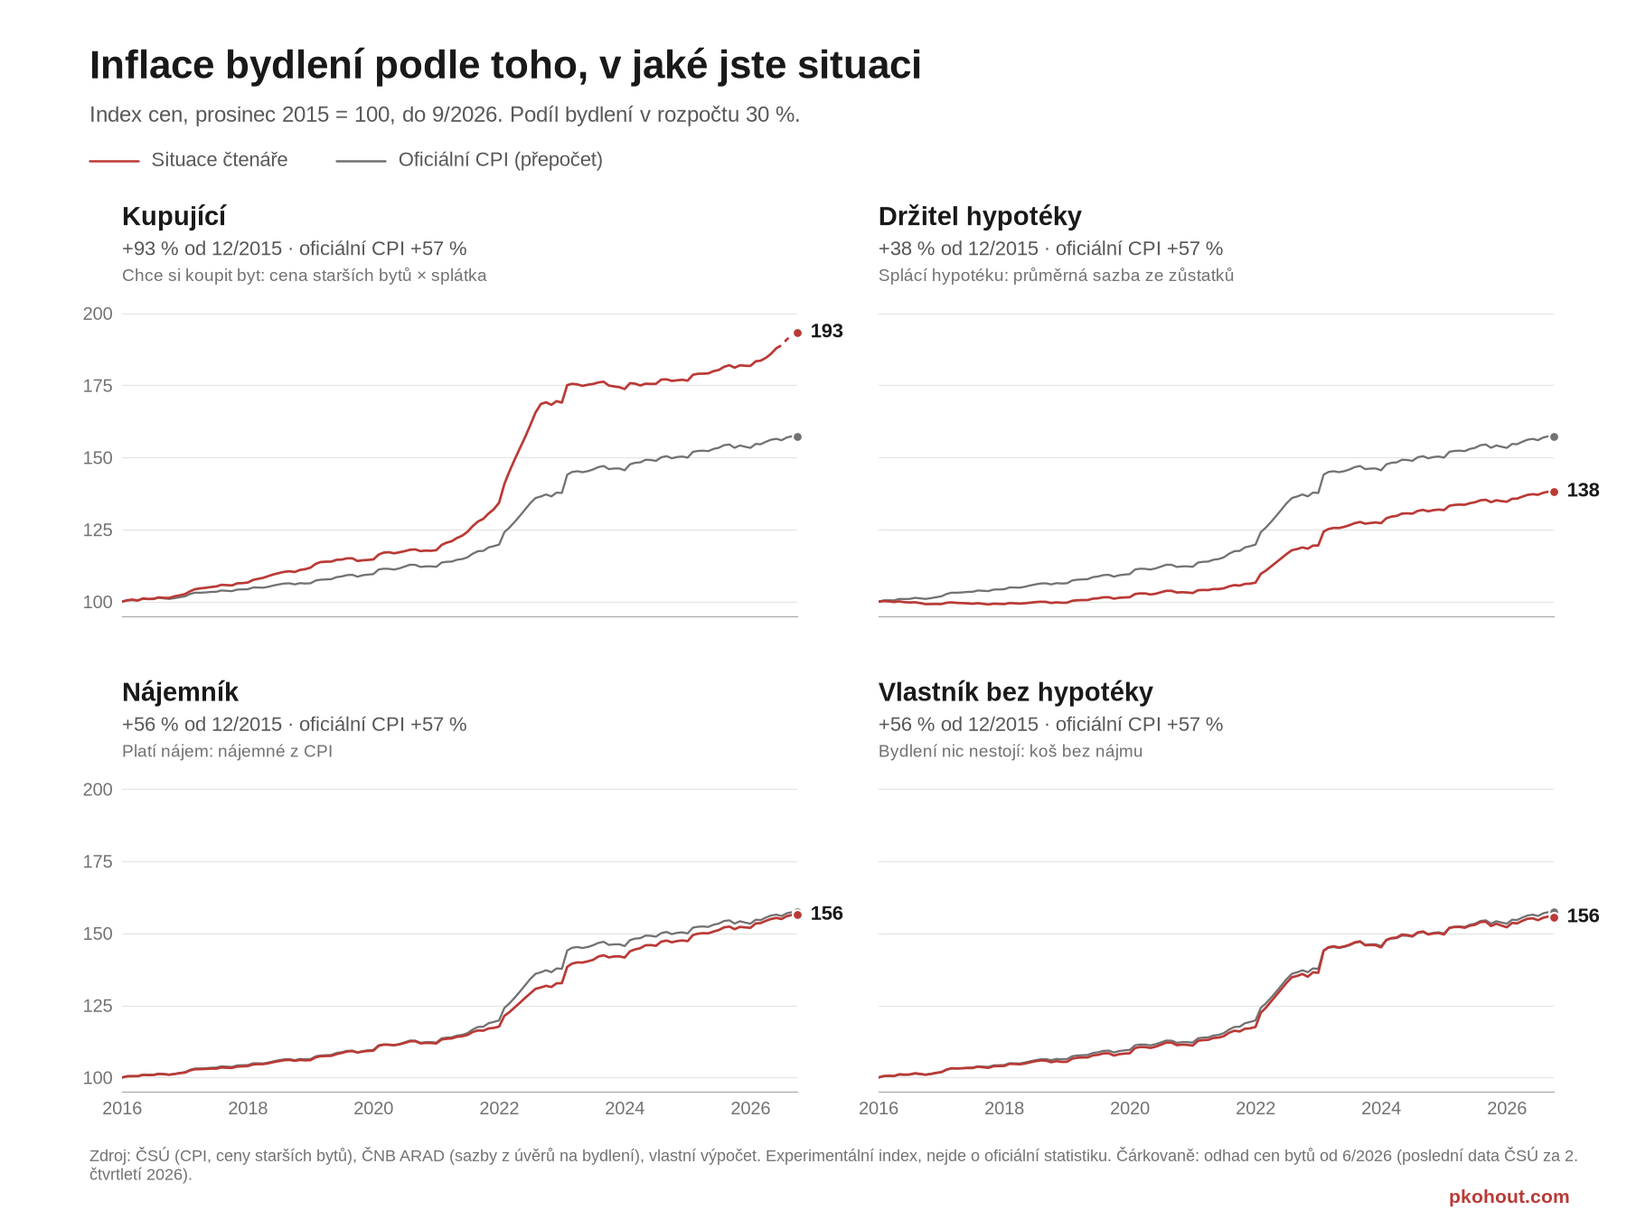
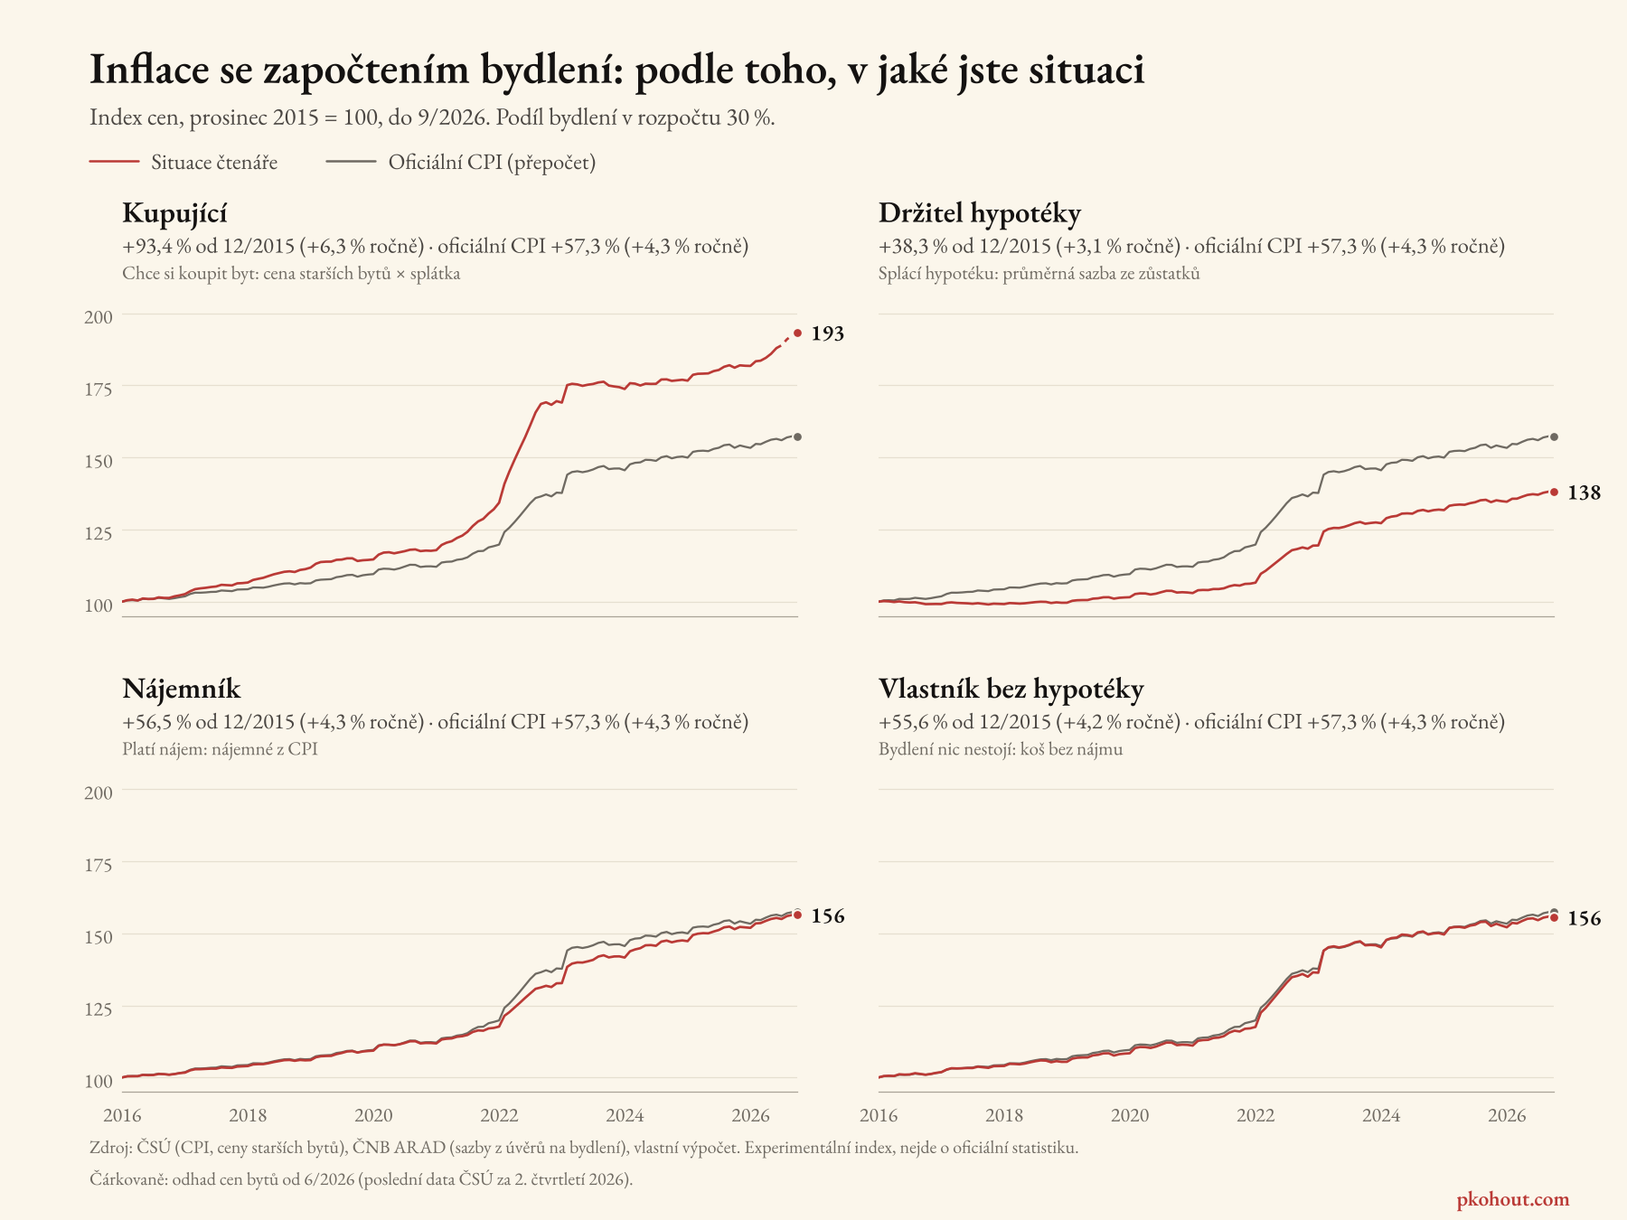
Add files via upload

diff --git a/docs/index.html b/docs/index.html
@@ -40,6 +40,10 @@ h1{font-size:clamp(32px,5.4vw,44px);line-height:1.1;margin:0 0 14px;font-weight:
 .chip{font:inherit;font-size:16px;background:transparent;border:1px solid var(--line);border-radius:0;padding:4px 14px;cursor:pointer;color:var(--ink)}
 .chip:hover{background:var(--card)}
 .chip[aria-pressed="true"]{background:var(--ink);border-color:var(--ink);color:var(--surface)}
+#mode-box[hidden]{display:none}
+.unit{font-size:.36em;letter-spacing:0;margin-left:.25em;color:var(--ink2)}
+.tile[aria-pressed="true"] .unit{color:#FBE9E4}
+.hero .unit{font-size:.3em}
 .slider{min-width:240px;flex:1;max-width:380px}
 .slider label{display:flex;justify-content:space-between;font-size:15px;color:var(--muted);margin-bottom:6px}
 .slider label b{color:var(--ink);font-weight:600}
@@ -118,6 +122,10 @@ td{font-variant-numeric:tabular-nums}
         <p class="row-label" id="lbl-per">Období</p>
         <div class="chips" id="chips" role="group" aria-labelledby="lbl-per"></div>
       </div>
+      <div id="mode-box">
+        <p class="row-label" id="lbl-mode">Zobrazit</p>
+        <div class="chips" id="modes" role="group" aria-labelledby="lbl-mode"></div>
+      </div>
       <div class="slider" id="slider-box">
         <label for="share"><span>Podíl bydlení na vašich výdajích</span><b id="share-val">30 %</b></label>
         <input type="range" id="share" min="10" max="60" step="1" value="30">
@@ -180,6 +188,7 @@ function rebase(arr, i0) {
   return arr.map((v, i) => (i < i0 || v == null ? null : (v / b) * 100));
 }
 function pct(arr, i0, i1) { return (arr[i1] / arr[i0] - 1) * 100; }
+function annualize(totalPct, months) { return (Math.pow(1 + totalPct / 100, 12 / months) - 1) * 100; }
 function startIndex(len, months) { return months == null ? 0 : Math.max(0, len - 1 - months); }
 /* CALC-END */
 
@@ -202,7 +211,7 @@ const NB = " ";
 const fmtPct = (v, d) => (v < 0 ? "−" : "+") + (d ? nf1 : nf0).format(Math.abs(v)) + NB + "%";
 const fmtPlain = (v, d) => (d ? nf1 : nf0).format(v) + NB + "%";
 
-const S = {D:null, sit:"kupujici", per:"all", H:0.30};
+const S = {D:null, sit:"kupujici", per:"all", H:0.30, mode:"pa"};
 const $ = id => document.getElementById(id);
 const el = (tag, cls, text) => { const e = document.createElement(tag); if (cls) e.className = cls; if (text != null) e.textContent = text; return e; };
 
@@ -219,11 +228,22 @@ function compute() {
   out.cpi = rebase(bench, i0);
   out.tiles = SIT.map(s => {
     const a = seriesFor(D, s.key, S.H);
-    return {key:s.key, cum:pct(a, i0, i1), yoy:pct(a, i1 - 12, i1)};
+    const cum = pct(a, i0, i1);
+    return {key:s.key, cum, yoy:pct(a, i1 - 12, i1), paV:annualize(cum, i1 - i0)};
   });
+  out.months = i1 - i0;
+  out.canPa = out.months > 12;
+  out.pa = out.canPa && S.mode === "pa";
   out.cpiCum = pct(bench, i0, i1);
   out.cpiYoy = pct(bench, i1 - 12, i1);
+  out.cpiPa = annualize(out.cpiCum, out.months);
   return out;
+}
+/* hlavní číslo: ročně (p. a.) nebo celkem, podle období a přepínače */
+function headline(c) {
+  const mineCum = c.sit[c.i1] - 100, offCum = c.cpi[c.i1] - 100;
+  if (!c.pa) return {mine:mineCum, off:offCum, mineCum, offCum, pa:false, suffix:""};
+  return {mine:annualize(mineCum, c.months), off:annualize(offCum, c.months), mineCum, offCum, pa:true, suffix:" p. a."};
 }
 
 /* ---------- vykreslení ---------- */
@@ -232,8 +252,11 @@ function renderTiles(c) {
   SIT.forEach((s, k) => {
     const t = c.tiles[k];
     const b = el("button", "tile"); b.type = "button"; b.setAttribute("aria-pressed", String(S.sit === s.key));
-    b.append(el("span", "tile-label", s.name), el("span", "tile-value", fmtPct(t.cum, 1)),
-      el("span", "tile-delta", "za 12 měsíců " + fmtPct(t.yoy, 1) + " · oficiálně " + fmtPct(c.cpiYoy, 1)));
+    const val = el("span", "tile-value", fmtPct(c.pa ? t.paV : t.cum, 1));
+    if (c.pa) val.append(el("span", "unit", "p. a."));
+    const delta = c.pa ? "celkem " + fmtPct(t.cum, 1) + " · oficiálně " + fmtPct(c.cpiPa, 1) + " p. a."
+                       : "za 12 měsíců " + fmtPct(t.yoy, 1) + " · oficiálně " + fmtPct(c.cpiYoy, 1);
+    b.append(el("span", "tile-label", s.name), val, el("span", "tile-delta", delta));
     b.addEventListener("click", () => { S.sit = s.key; update(); });
     box.append(b);
   });
@@ -246,13 +269,28 @@ function renderChips() {
     box.append(b);
   });
 }
+function renderModes(c) {
+  $("mode-box").hidden = !c.canPa;
+  const box = $("modes"); box.replaceChildren();
+  [["pa", "Ročně (p. a.)"], ["total", "Celkem"]].forEach(([id, label]) => {
+    const b = el("button", "chip", label); b.type = "button"; b.setAttribute("aria-pressed", String(S.mode === id));
+    b.addEventListener("click", () => { S.mode = id; update(); });
+    box.append(b);
+  });
+}
 function renderVerdict(c) {
-  const s = SIT.find(x => x.key === S.sit);
-  const mine = c.sit[c.i1] - 100, off = c.cpi[c.i1] - 100, diff = mine - off;
-  $("hero").textContent = fmtPct(mine, 1);
+  const s = SIT.find(x => x.key === S.sit), h = headline(c), diff = h.mine - h.off;
+  const hero = $("hero"); hero.replaceChildren(fmtPct(h.mine, 1));
+  if (h.pa) hero.append(el("span", "unit", "p. a."));
   const p = $("verdict-text"); p.replaceChildren();
-  p.append("Pro " + s.who + " vyšla inflace bydlení " + c.per.text + " na ", el("b", null, fmtPct(mine, 1)),
-    ". Oficiální inflace za stejné období je " + fmtPct(off, 1) + ", rozdíl činí ", el("b", null, (diff < 0 ? "−" : "+") + nf1.format(Math.abs(diff)) + NB + "procentních bodů"), ".");
+  const pp = (diff < 0 ? "−" : "+") + nf1.format(Math.abs(diff)) + NB + "procentních bodů" + (h.pa ? " ročně" : "");
+  if (h.pa) {
+    p.append("Pro " + s.who + " vyšla inflace bydlení " + c.per.text + " v průměru na ", el("b", null, fmtPct(h.mine, 1) + " ročně"),
+      " (celkem " + fmtPct(h.mineCum, 1) + "). Oficiální inflace za stejné období je " + fmtPct(h.off, 1) + " ročně (celkem " + fmtPct(h.offCum, 1) + "), rozdíl činí ", el("b", null, pp), ".");
+  } else {
+    p.append("Pro " + s.who + " vyšla inflace bydlení " + c.per.text + " na ", el("b", null, fmtPct(h.mine, 1)),
+      ". Oficiální inflace za stejné období je " + fmtPct(h.off, 1) + ", rozdíl činí ", el("b", null, pp), ".");
+  }
 }
 
 let geo = null;
@@ -322,7 +360,7 @@ function renderChart(c) {
   geo.hit.addEventListener("pointermove", move);
   geo.hit.addEventListener("pointerdown", move);
   geo.hit.addEventListener("pointerleave", hideTip);
-  svg.setAttribute("aria-label", `Graf indexu cen od ${shortLabel(first)} do ${shortLabel(last)}, ${SIT.find(x => x.key === S.sit).name}: ${fmtPct(c.sit[c.i1] - 100, 1)}, oficiální inflace ${fmtPct(c.cpi[c.i1] - 100, 1)}`);
+  svg.setAttribute("aria-label", `Graf indexu cen od ${shortLabel(first)} do ${shortLabel(last)}, ${SIT.find(x => x.key === S.sit).name}: ${fmtPct(headline(c).mine, 1)}${headline(c).suffix}, oficiální inflace ${fmtPct(headline(c).off, 1)}${headline(c).suffix}`);
 }
 let cur = null;
 function showTip(k) {
@@ -367,8 +405,9 @@ function renderTexts() {
    ["Splácím hypotéku", "splátka na 1 Kč jistiny při průměrné sazbě ze zůstatků úvěrů na bydlení. Nezachytí domácnosti, jimž právě skončila fixace; ty zažily skok větší."],
    ["Vlastním bez hypotéky", "žádná složka nákladů na bydlení, jen energie, voda a údržba z koše."],
    ["Bydlím v nájmu", "nájemné z CPI (zahrnuje nové i stávající smlouvy)."]].forEach(([a, b]) => { const li = el("li"); const bb = el("b", null, a + ": "); li.append(bb, b); ul.append(li); });
+  const p3 = el("p", null, "U období delších než rok se celková změna přepočítává na průměrnou roční změnu (p. a.) složeným způsobem: (1 + celková změna)^(12 / počet měsíců) − 1. Přepínačem lze zobrazit i celkovou změnu.");
   const p2 = el("p", null, "Index je vážený průměr obou složek vůči cenám průměru roku 2024: L = podíl × bydlení + (1 − podíl) × koš. Jako srovnání slouží oficiální CPI přepočtené se stejnými váhami (od roku 2024 se od skutečné meziroční inflace liší v průměru o " + nf1.format(M.chyba_prepoctu_cpi_pb.mae_2024_plus).replace(".", ",") + " procentního bodu).");
-  mt.append(p1, ul, p2);
+  mt.append(p1, ul, p2, p3);
   const sr = $("sources"); sr.replaceChildren();
   const u2 = el("ul");
   ["Spotřebitelské ceny a váhy koše: Český statistický úřad (otevřená data, CZ-COICOP).",
@@ -388,11 +427,11 @@ function renderTable(c) {
   t.append(tb);
 }
 function writeHash() {
-  try { history.replaceState(null, "", "#s=" + S.sit + "&p=" + S.per + "&h=" + Math.round(S.H * 100)); } catch (e) { /* vložený frame */ }
+  try { history.replaceState(null, "", "#s=" + S.sit + "&p=" + S.per + "&h=" + Math.round(S.H * 100) + "&m=" + S.mode); } catch (e) { /* vložený frame */ }
 }
 function update() {
   const c = compute();
-  renderTiles(c); renderChips(); renderVerdict(c); renderLegend(); renderTexts(); renderChart(c); renderTable(c); writeHash();
+  renderTiles(c); renderChips(); renderModes(c); renderVerdict(c); renderLegend(); renderTexts(); renderChart(c); renderTable(c); writeHash();
   S.last = c;
 }
 
@@ -404,10 +443,11 @@ function drawCard(cv) {
   g.fillStyle = "#FBF6EB"; g.fillRect(0, 0, W, H);
   g.fillStyle = "#BA3A36"; g.font = `700 30px ${F}`; g.textBaseline = "alphabetic"; g.fillText("pkohout.com", 70, 90);
   g.fillStyle = "#141211"; g.font = `700 54px ${F}`; g.fillText("Inflace se započtením bydlení", 70, 150); g.fillStyle = "#4A4642"; g.font = `400 40px ${F}`; g.fillText(s.name, 70, 205);
-  const mine = c.sit[c.i1] - 100, off = c.cpi[c.i1] - 100;
-  g.fillStyle = "#BA3A36"; g.font = `700 150px ${F}`; g.fillText(fmtPct(mine, 1).replace(NB, " "), 70, 350);
+  const hd = headline(c);
+  g.fillStyle = "#BA3A36"; g.font = `700 150px ${F}`; const big = fmtPct(hd.mine, 1).replace(NB, " "); g.fillText(big, 70, 350);
+  if (hd.pa) { const w = g.measureText(big).width; g.font = `400 54px ${F}`; g.fillText("p. a.", 70 + w + 18, 350); }
   g.fillStyle = "#4A4642"; g.font = `400 34px ${F}`;
-  g.fillText(c.per.text.charAt(0).toUpperCase() + c.per.text.slice(1) + ", oficiální inflace " + fmtPct(off, 1).replace(NB, " "), 70, 410);
+  g.fillText(c.per.text.charAt(0).toUpperCase() + c.per.text.slice(1) + ", oficiální inflace " + fmtPct(hd.off, 1).replace(NB, " ") + hd.suffix, 70, 410);
   // mini graf
   const L = 70, R = W - 70, T = 470, B = 770;
   const vals = []; for (let i = c.i0; i <= c.i1; i++) vals.push(c.sit[i], c.cpi[i]);
@@ -431,7 +471,7 @@ async function onPng() {
 }
 async function onShare() {
   const c = S.last, s = SIT.find(x => x.key === S.sit);
-  const text = "Inflace se započtením bydlení (" + s.name.toLowerCase() + "): " + fmtPct(c.sit[c.i1] - 100, 1) + ", oficiální inflace " + fmtPct(c.cpi[c.i1] - 100, 1) + " (" + c.per.text + ").";
+  const text = "Inflace se započtením bydlení (" + s.name.toLowerCase() + "): " + fmtPct(headline(c).mine, 1) + headline(c).suffix + ", oficiální inflace " + fmtPct(headline(c).off, 1) + headline(c).suffix + " (" + c.per.text + ").";
   const url = (window.top === window ? location.href : "https://www.pkohout.com");
   try {
     const b = await cardBlob(), f = new File([b], "inflace-bydleni.png", {type:"image/png"});
@@ -449,6 +489,7 @@ function readHash() {
     if (SIT.some(s => s.key === p.get("s"))) S.sit = p.get("s");
     if (PERIODS.some(x => x.id === p.get("p"))) S.per = p.get("p");
     const h = Number(p.get("h")); if (h >= 10 && h <= 60) S.H = h / 100;
+    if (p.get("m") === "pa" || p.get("m") === "total") S.mode = p.get("m");
   } catch (e) { /* ignoruj */ }
 }
 async function init() {

diff --git a/tests/test_page.js b/tests/test_page.js
@@ -4,7 +4,7 @@ const fs = require("fs"), path = require("path");
 const html = fs.readFileSync(path.join(__dirname, "../docs/index.html"), "utf8");
 const m = html.match(/\/\* CALC-START[\s\S]*?\*\/([\s\S]*?)\/\* CALC-END \*\//);
 if (!m) throw new Error("CALC blok nenalezen");
-const calc = new Function(m[1] + "; return {seriesFor, rebase, pct, startIndex};")();
+const calc = new Function(m[1] + "; return {seriesFor, rebase, pct, annualize, startIndex};")();
 const D = JSON.parse(fs.readFileSync(path.join(__dirname, "../docs/data.json"), "utf8"));
 const H = D.meta.vychozi_podil_bydleni, n = D.mesice.length;
 let bad = 0;
@@ -17,7 +17,11 @@ for (const [k, s] of Object.entries(D.souhrn_vychozi)) {
   const arr = k === "cpi" ? D.cpi_replika : calc.seriesFor(D, k, H);
   check(k + " od začátku", calc.pct(arr, 0, n - 1), s.od_zacatku_pct);
   check(k + " meziročně", calc.pct(arr, n - 13, n - 1), s.mezirocne_pct);
+  check(k + " ročně (p. a.)", calc.annualize(calc.pct(arr, 0, n - 1), n - 1), s.rocne_od_zacatku_pct);
 }
+check("annualize(100, 120)", calc.annualize(100, 120), 7.18);
+check("annualize(21, 24)", calc.annualize(21, 24), 10.0);
+check("annualize(5, 12)", calc.annualize(5, 12), 5.0);
 // hc pole nesmí mít díry
 for (const k of Object.keys(D.hc)) if (D.hc[k].some(v => v == null || !isFinite(v))) { bad++; console.log("CHYBA díry v hc." + k); }
 if (D.mesice.length !== D.n.length) { bad++; console.log("CHYBA délky"); }

diff --git a/src/chart.py b/src/chart.py
@@ -9,20 +9,26 @@ import matplotlib
 
 matplotlib.use("Agg")
 import matplotlib.pyplot as plt  # noqa: E402
+from matplotlib import font_manager  # noqa: E402
 import pandas as pd  # noqa: E402
 
 import model  # noqa: E402
 
 # --- design pkohout.com -----------------------------------------------------
-SURFACE = "#FFFFFF"
-INK = "#191919"        # primární text
-INK2 = "#595858"       # sekundární text
-MUTED = "#727272"      # popisky os
-GRID = "#E5E5E4"       # hairline mřížka
-BASE = "#ACABAB"       # osa
+SURFACE = "#FBF6EB"   # krémové pozadí webu
+INK = "#141211"        # primární text
+INK2 = "#4A4642"       # sekundární text
+MUTED = "#6F6A62"      # popisky os
+GRID = "#E6DFD0"       # hairline mřížka
+BASE = "#A9A397"       # osa
 ACCENT = "#BA3A36"     # červená pkohout.com: situace čtenáře
-BENCH = "#727272"      # neutrální šedá: oficiální CPI (zdůrazni jednu, ostatní zašedni)
-FONT = ["Avenir Next", "Avenir", "Helvetica Neue", "Liberation Sans", "DejaVu Sans"]
+BENCH = "#6F6A62"      # neutrální šedá: oficiální CPI (zdůrazni jednu, ostatní zašedni)
+FONT = ["EB Garamond", "Garamond", "Times New Roman", "DejaVu Serif"]
+_FONT_DIR = os.path.join(os.path.dirname(os.path.dirname(os.path.abspath(__file__))), "fonts")
+for _f in ("EBGaramond-Regular.ttf", "EBGaramond-SemiBold.ttf"):  # písmo je v repozitáři (licence SIL OFL)
+    _p = os.path.join(_FONT_DIR, _f)
+    if os.path.exists(_p):
+        font_manager.fontManager.addfont(_p)
 
 PANELS = [
     ("kupujici", "Kupující", "Chce si koupit byt: cena starších bytů × splátka"),
@@ -33,11 +39,11 @@ PANELS = [
 
 
 def _pct(v):
-    return f"{v:+.0f} %".replace("+", "+").replace("-", "−")
+    return f"{v:+.1f} %".replace(".", ",").replace("-", "−")
 
 
 def render(res, H, out_dir):
-    plt.rcParams.update({"font.family": FONT, "font.size": 10.5, "axes.unicode_minus": True})
+    plt.rcParams.update({"font.family": FONT, "font.size": 11.5, "axes.unicode_minus": True})
     idx = res["idx"]
     x = idx.to_timestamp() + pd.offsets.MonthEnd(0)
     est = res["hpi_est_from"]
@@ -55,20 +61,20 @@ def render(res, H, out_dir):
     pad = 5
 
     fig = plt.figure(figsize=(12, 9), dpi=150, facecolor=SURFACE)
-    fig.text(0.055, 0.945, "Inflace bydlení podle toho, v jaké jste situaci",
-             fontsize=21, color=INK, ha="left", va="center", weight="bold")
+    fig.text(0.055, 0.945, "Inflace se započtením bydlení: podle toho, v jaké jste situaci",
+             fontsize=23.5, color=INK, ha="left", va="center", weight="bold")
     last = idx[-1]
     fig.text(0.055, 0.905,
              f"Index cen, prosinec 2015 = 100, do {last.month}/{last.year}. "
              f"Podíl bydlení v rozpočtu {int(round(H * 100))} %.",
-             fontsize=11.5, color=INK2, ha="left", va="center")
+             fontsize=12.9, color=INK2, ha="left", va="center")
 
     # sdílená legenda (>= 2 série => legenda vždy; klíč je krátká čára)
     lx, ly = 0.055, 0.868
     for label, color in (("Situace čtenáře", ACCENT), ("Oficiální CPI (přepočet)", BENCH)):
         fig.add_artist(plt.Line2D([lx, lx + 0.03], [ly, ly], color=color, lw=1.2,
                                   transform=fig.transFigure, solid_capstyle="round"))
-        t = fig.text(lx + 0.038, ly, label, fontsize=10.5, color=INK2, ha="left", va="center")
+        t = fig.text(lx + 0.038, ly, label, fontsize=11.8, color=INK2, ha="left", va="center")
         fig.canvas.draw()
         w = t.get_window_extent().width / fig.bbox.width
         lx += 0.038 + w + 0.03
@@ -86,7 +92,7 @@ def render(res, H, out_dir):
         ax.set_yticks(range(ymin, ymax + 1, 25))
         ax.grid(axis="y", color=GRID, lw=0.6, ls="-")
         ax.set_axisbelow(True)
-        ax.tick_params(axis="both", length=0, labelsize=9.5, labelcolor=MUTED, pad=5)
+        ax.tick_params(axis="both", length=0, labelsize=10.6, labelcolor=MUTED, pad=5)
         ax.xaxis.set_major_locator(matplotlib.dates.YearLocator(2))
         ax.xaxis.set_major_formatter(matplotlib.dates.DateFormatter("%Y"))
 
@@ -104,14 +110,16 @@ def render(res, H, out_dir):
             ax.plot([x[-1]], [ser.iloc[-1]], marker="o", ms=5.2, mfc=color, mec=SURFACE, mew=1.0,
                     zorder=5, clip_on=False)
         ax.annotate(f"{s.iloc[-1]:.0f}", (x[-1], s.iloc[-1]), xytext=(7, 0), textcoords="offset points",
-                    fontsize=10.5, color=INK, weight="bold", va="center", ha="left", annotation_clip=False)
+                    fontsize=11.8, color=INK, weight="bold", va="center", ha="left", annotation_clip=False)
 
         tot, off = s.iloc[-1] - 100, bench.iloc[-1] - 100
-        ax.text(0, 1.215, title, transform=ax.transAxes, fontsize=14, color=INK, weight="bold",
+        ax.text(0, 1.215, title, transform=ax.transAxes, fontsize=15.7, color=INK, weight="bold",
                 ha="left", va="bottom")
-        ax.text(0, 1.125, f"{_pct(tot)} od 12/2015 · oficiální CPI {_pct(off)}",
-                transform=ax.transAxes, fontsize=10.5, color=INK2, ha="left", va="bottom")
-        ax.text(0, 1.045, sub, transform=ax.transAxes, fontsize=9, color=MUTED, ha="left", va="bottom")
+        months = len(s) - 1
+        pa, off_pa = model.per_annum(tot, months), model.per_annum(off, months)
+        ax.text(0, 1.125, f"{_pct(tot)} od 12/2015 ({_pct(pa)} ročně) · oficiální CPI {_pct(off)} ({_pct(off_pa)} ročně)",
+                transform=ax.transAxes, fontsize=11.8, color=INK2, ha="left", va="bottom")
+        ax.text(0, 1.045, sub, transform=ax.transAxes, fontsize=10.1, color=MUTED, ha="left", va="bottom")
         ax.set_xlim(x[0], x[-1])
     for ax in axes[::2]:
         ax.tick_params(axis="y", labelleft=True)
@@ -121,9 +129,9 @@ def render(res, H, out_dir):
     foot = ("Zdroj: ČSÚ (CPI, ceny starších bytů), ČNB ARAD (sazby z úvěrů na bydlení), vlastní výpočet. "
             "Experimentální index, nejde o oficiální statistiku.")
     if est is not None:
-        foot += f" Čárkovaně: odhad cen bytů od {est.month}/{est.year} (poslední data ČSÚ za {res['last_hpi_q']})."
-    fig.text(0.055, 0.045, foot, fontsize=8.6, color=MUTED, ha="left", va="center", wrap=True)
-    fig.text(0.965, 0.018, "pkohout.com", fontsize=10, color=ACCENT, ha="right", va="center", weight="bold")
+        foot += f"\nČárkovaně: odhad cen bytů od {est.month}/{est.year} (poslední data ČSÚ za {res['last_hpi_q']})."
+    fig.text(0.055, 0.046, foot, fontsize=9.6, color=MUTED, ha="left", va="center", linespacing=1.35)
+    fig.text(0.965, 0.018, "pkohout.com", fontsize=11.2, color=ACCENT, ha="right", va="center", weight="bold")
 
     os.makedirs(out_dir, exist_ok=True)
     path = os.path.join(out_dir, "graf_inflace_bydleni.png")

diff --git a/src/model.py b/src/model.py
@@ -105,6 +105,11 @@ def situation_index(res, key, H):
     return H * res["hc"][key] + (1.0 - H) * res["n"]
 
 
+def per_annum(total_pct, months):
+    """Přepočet celkové změny (v %) za dané období na průměrnou roční změnu (složené, geometricky)."""
+    return ((1 + total_pct / 100) ** (12 / months) - 1) * 100
+
+
 def summarize(res, H):
     """Souhrnná čísla pro výchozí podíl bydlení H."""
     out = {}
@@ -114,6 +119,7 @@ def summarize(res, H):
         s = situation_index(res, key, H)
         out[key] = {
             "od_zacatku_pct": round(float((s.iloc[-1] / s.iloc[0] - 1) * 100), 1),
+            "rocne_od_zacatku_pct": round(float(per_annum((s.iloc[-1] / s.iloc[0] - 1) * 100, len(s) - 1)), 1),
             "mezirocne_pct": round(float((s.iloc[-1] / s.loc[last - 12] - 1) * 100), 1),
         }
     return out

diff --git a/tests/test_model.py b/tests/test_model.py
@@ -73,6 +73,12 @@ class ModelTests(unittest.TestCase):
             got = (s.loc["2026-05"] / s.loc["2015-12"] - 1) * 100
             self.assertAlmostEqual(float(got), exp, delta=0.15, msg=key)
 
+    def test_per_annum(self):
+        self.assertAlmostEqual(model.per_annum(100, 120), 7.1773, places=3)   # zdvojnásobení za 10 let
+        self.assertAlmostEqual(model.per_annum(21, 24), 10.0, places=6)       # +21 % za 2 roky = 10 % ročně
+        self.assertAlmostEqual(model.per_annum(5, 12), 5.0, places=9)         # 12 měsíců: beze změny
+        self.assertAlmostEqual(model.per_annum(-19, 24), -10.0, places=6)     # záporná změna
+
     def test_hpi_estimate_flagged(self):
         est = self.res["hpi_est_from"]
         self.assertIsNotNone(est)
